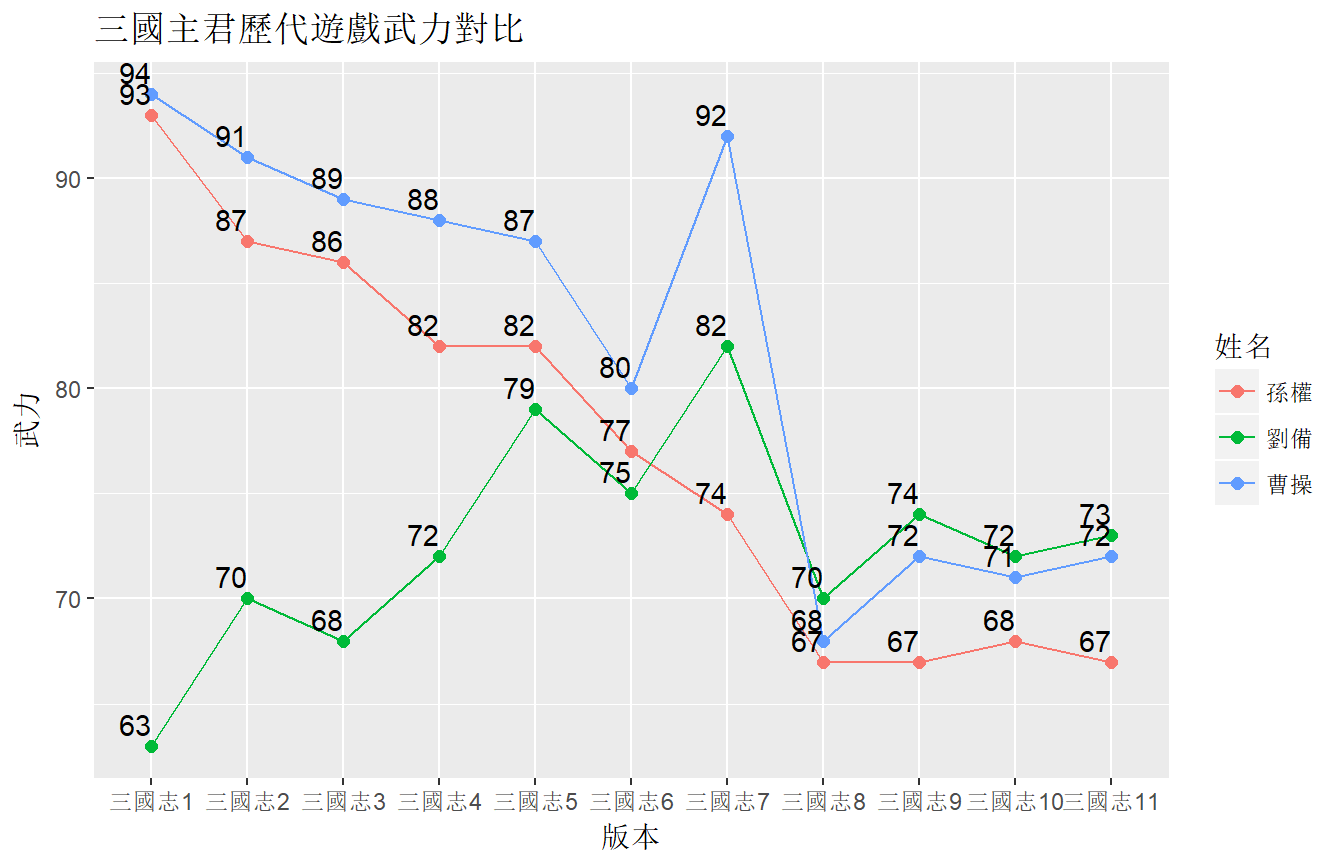
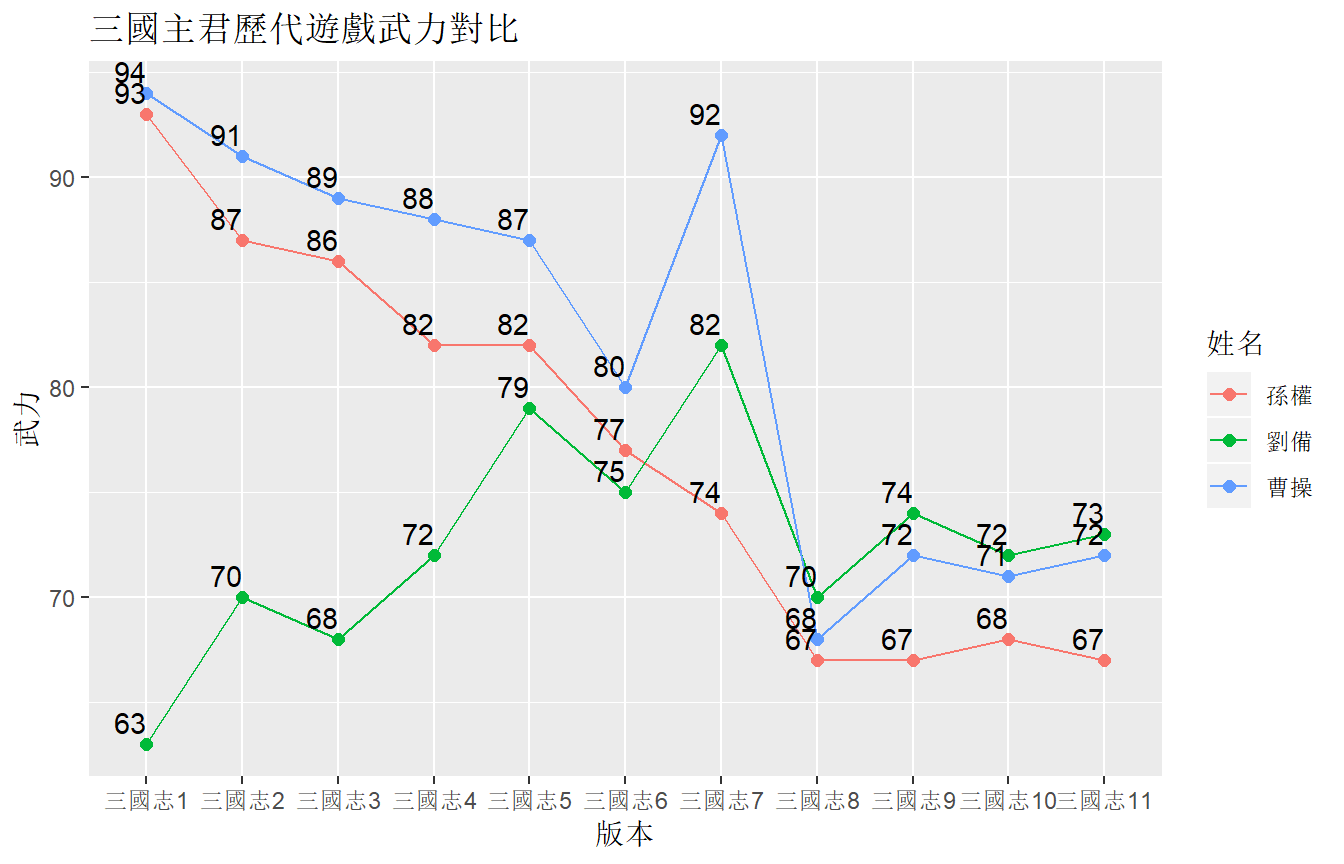
changed function from geom_text to geom_text_repel

diff --git a/content/post/RoTC-Analysis.html b/content/post/RoTC-Analysis.html
@@ -34,8 +34,12 @@ tags:
 <p>这些是我们需要用到的package.</p>
 <pre class="r"><code>library(readxl)
 library(dplyr)
-library(data.table)
-library(ggplot2)</code></pre>
+library(data.table)</code></pre>
+<pre><code>Warning: package &#39;data.table&#39; was built under R version 3.5.1</code></pre>
+<pre class="r"><code>library(ggplot2)</code></pre>
+<pre><code>Warning: package &#39;ggplot2&#39; was built under R version 3.5.1</code></pre>
+<pre class="r"><code>library(ggrepel)</code></pre>
+<pre><code>Warning: package &#39;ggrepel&#39; was built under R version 3.5.1</code></pre>
 <p>为了能在R里使用中文，我们用下面的代码将系统locale设置为”Chs”.</p>
 <pre class="r"><code>Sys.setlocale(&#39;LC_ALL&#39;,&#39;Chs&#39;)</code></pre>
 <p>接着用<code>readxl::read_excel</code>读取数据，每一个版本的数据分别存在了1个data frame里，我们总共有11个data frame，而这11个data frame又都再存在一个list里，因为<code>lapply</code>返回的就是list结构，我们给它命名为<code>dt</code>.</p>
@@ -52,12 +56,12 @@ series &lt;- lapply(1:11, function(x) {select(dt[[x]], -c(2:8)) %&gt;%
 <pre><code># A tibble: 6 x 7
   姓名    體力  武力  智力  魅力  運勢 版本   
   &lt;chr&gt;  &lt;dbl&gt; &lt;dbl&gt; &lt;dbl&gt; &lt;dbl&gt; &lt;dbl&gt; &lt;chr&gt;  
-1 丁奉     81.   22.   81.   29.   47. 三國志1
-2 于禁     82.   72.   20.   25.   28. 三國志1
-3 公孫瓚   84.   70.   67.   89.   28. 三國志1
-4 太史慈   88.   97.   47.   84.   34. 三國志1
-5 孔融     84.   82.   61.   50.   77. 三國志1
-6 文聘     88.   84.   22.   64.   83. 三國志1</code></pre>
+1 丁奉      81    22    81    29    47 三國志1
+2 于禁      82    72    20    25    28 三國志1
+3 公孫瓚    84    70    67    89    28 三國志1
+4 太史慈    88    97    47    84    34 三國志1
+5 孔融      84    82    61    50    77 三國志1
+6 文聘      88    84    22    64    83 三國志1</code></pre>
 <p>前边说过，每一代游戏武将拥有的属性不一样，第一代有体力，第二代把统率分成了陆指和水指, 第九代没有魅力。那我们来看下所有作品都有属性是什么，以及每一代都有的属性。</p>
 <p>排除姓名和版本，历代都出现过的属性只有武力和智力，这两个属性也是我们后边会主要分析的。</p>
 <pre class="r"><code>common_attr &lt;- Reduce(intersect, sapply(series, colnames))
@@ -112,16 +116,16 @@ nrow(show_in_all)</code></pre>
 <pre><code># A tibble: 10 x 1
    姓名  
    &lt;chr&gt; 
- 1 許靖  
- 2 楊秋  
- 3 雷薄  
- 4 丁奉  
- 5 吳班  
- 6 馬休  
- 7 呂虔  
- 8 邢道榮
- 9 魯肅  
-10 宋憲  </code></pre>
+ 1 嚴顏  
+ 2 紀靈  
+ 3 郭圖  
+ 4 邢道榮
+ 5 雍闓  
+ 6 公孫瓚
+ 7 徐盛  
+ 8 馬鐵  
+ 9 馬玩  
+10 朱靈  </code></pre>
 <p>那有哪些角色出现在了第一部，却在后边某些版本没出现呢。</p>
 <pre class="r"><code>show_in_all &lt;- Reduce(intersect, lapply(series, &quot;[&quot;, 1))
 setdiff(filter(series_full, 版本 == &quot;三國志1&quot;)$姓名, show_in_all$姓名)</code></pre>
@@ -222,16 +226,16 @@ top_low_attr &lt;- function(attrs, bw = 1){
 <pre><code># A tibble: 10 x 3
    姓名    次數  均值
    &lt;chr&gt;  &lt;int&gt; &lt;dbl&gt;
- 1 呂布      11  100.
- 2 張飛      11   99.
- 3 關羽      11   98.
- 4 馬超      11   98.
- 5 許褚      11   97.
- 6 趙雲      10   98.
- 7 典韋       9   96.
- 8 黃忠       6   96.
- 9 文醜       6   96.
-10 太史慈     5   96.</code></pre>
+ 1 呂布      11   100
+ 2 張飛      11    99
+ 3 關羽      11    98
+ 4 馬超      11    98
+ 5 許褚      11    97
+ 6 趙雲      10    98
+ 7 典韋       9    96
+ 8 黃忠       6    96
+ 9 文醜       6    96
+10 太史慈     5    96</code></pre>
 </div>
 <div class="section level4">
 <h4>2.3.2 历代最高智力</h4>
@@ -240,16 +244,16 @@ top_low_attr &lt;- function(attrs, bw = 1){
 <pre><code># A tibble: 10 x 3
    姓名    次數  均值
    &lt;chr&gt;  &lt;int&gt; &lt;dbl&gt;
- 1 龐統      11   98.
- 2 司馬懿    11   98.
- 3 荀彧      11   97.
- 4 周瑜      11   97.
- 5 諸葛亮    10  100.
- 6 郭嘉      10   98.
- 7 陸遜      10   96.
- 8 賈詡       9   96.
- 9 徐庶       9   96.
-10 左慈       4   99.</code></pre>
+ 1 龐統      11    98
+ 2 司馬懿    11    98
+ 3 荀彧      11    97
+ 4 周瑜      11    97
+ 5 諸葛亮    10   100
+ 6 郭嘉      10    98
+ 7 陸遜      10    96
+ 8 賈詡       9    96
+ 9 徐庶       9    96
+10 左慈       4    99</code></pre>
 <p>那我们来看下是哪一代诸葛亮掉队了。原來是第七部，这部游戏的人物数值设计师看来是个诸葛亮黑，或者他把诸葛亮其他能力调高了？</p>
 <pre class="r"><code>series_full %&gt;% filter(姓名 == &quot;諸葛亮&quot;)  %&gt;%
   select(&quot;智力&quot;, &quot;版本&quot;)</code></pre>
@@ -288,16 +292,16 @@ top_low_attr &lt;- function(attrs, bw = 1){
 <pre><code># A tibble: 10 x 3
    姓名      次數  均值
    &lt;chr&gt;    &lt;int&gt; &lt;dbl&gt;
- 1 兀突骨       9    9.
- 2 俄何燒戈     7   13.
- 3 潘鳳         7   12.
- 4 忙牙長       7   10.
- 5 楊秋         5   16.
- 6 金環三結     5   15.
- 7 蔡和         5    9.
- 8 王雙         4   16.
- 9 曹豹         4   14.
-10 孟優         3   12.</code></pre>
+ 1 兀突骨       9     9
+ 2 俄何燒戈     7    13
+ 3 潘鳳         7    12
+ 4 忙牙長       7    10
+ 5 楊秋         5    16
+ 6 金環三結     5    15
+ 7 蔡和         5     9
+ 8 王雙         4    16
+ 9 曹豹         4    14
+10 孟優         3    12</code></pre>
 <p>其它人物没太多可说的。蔡和，被曹操喊去卧底，估计一身演技还没施展，就被周瑜识破了。 上将潘凤打不过华雄为啥智力那么低，何况也是韩馥让他去的，他的大斧饥渴难耐那是电视剧给他加的台词。都怪罗贯中。</p>
 <pre>
 “末将遵命！取兵器来！” 《央视版三国》
@@ -313,16 +317,16 @@ top_low_attr &lt;- function(attrs, bw = 1){
 <pre><code># A tibble: 10 x 3
    姓名    次數  均值
    &lt;chr&gt;  &lt;int&gt; &lt;dbl&gt;
- 1 黃皓       8   12.
- 2 岑昏       7   12.
- 3 韓玄       7   11.
- 4 忙牙長     5   16.
- 5 曹豹       5   15.
- 6 雷薄       5   15.
- 7 嚴政       5   13.
- 8 何晏       4   10.
- 9 楊松       4    8.
-10 糜芳       3   14.</code></pre>
+ 1 黃皓       8    12
+ 2 岑昏       7    12
+ 3 韓玄       7    11
+ 4 忙牙長     5    16
+ 5 曹豹       5    15
+ 6 雷薄       5    15
+ 7 嚴政       5    13
+ 8 何晏       4    10
+ 9 楊松       4     8
+10 糜芳       3    14</code></pre>
 </div>
 </div>
 <div class="section level3">
@@ -386,7 +390,7 @@ wuhu_vs_wuzi &lt;- function(attrs){
     geom_point(size = 2, aes(color = 稱呼)) + 
     geom_line(aes(color = 稱呼)) +
     scale_y_continuous(limits = c(0, 100), breaks = seq(0, 100, 10)) + 
-    geom_text(data = filter(general, 版本 == &quot;三國志1&quot;), 
+    geom_text_repel(data = filter(general, 版本 == &quot;三國志1&quot;), 
       aes(label = 姓名, hjust = 1, vjust = -1)) +
     ggtitle(paste0(&quot;五子良將和五虎大將歷代&quot;, attrs, &quot;對比&quot;))
 }</code></pre>
@@ -441,16 +445,16 @@ wuhu_vs_wuzi &lt;- function(attrs){
 <pre><code># A tibble: 10 x 2
    姓名  武力變化
    &lt;chr&gt;    &lt;dbl&gt;
- 1 孔融       77.
- 2 貂蟬       71.
- 3 鍾繇       68.
- 4 韓馥       66.
- 5 小喬       65.
- 6 大喬       63.
- 7 丁奉       62.
- 8 曹熊       61.
- 9 裴秀       60.
-10 劉繇       59.</code></pre>
+ 1 孔融        77
+ 2 貂蟬        71
+ 3 鍾繇        68
+ 4 韓馥        66
+ 5 小喬        65
+ 6 大喬        63
+ 7 丁奉        62
+ 8 曹熊        61
+ 9 裴秀        60
+10 劉繇        59</code></pre>
 又是一位建安七子，武力变化最大的是孔融让梨故事的主人公孔文举。孔融武力最高达到了82，最低却只有5。也许考虑到了孔融早期为十八路诸侯中的一路，参与了讨伐董卓。但无论是正史还是演义，记载的孔融打过的仗基本都是败的。后汉书有个很有意思的记载。
 <pre>
 《後漢書·卷七十》：「建安元年，為袁譚所攻，自春至夏，戰士所餘裁數百人，
@@ -480,17 +484,17 @@ wuhu_vs_wuzi &lt;- function(attrs){
 <pre><code># A tibble: 11 x 2
    姓名   智力變化
    &lt;chr&gt;     &lt;dbl&gt;
- 1 鮑信        67.
- 2 韓玄        66.
- 3 劉璋        65.
- 4 穆順        57.
- 5 橋玄        56.
- 6 曹訓        55.
- 7 全琮        54.
- 8 蔡中        53.
- 9 韓浩        53.
-10 審配        53.
-11 於夫羅      53.</code></pre>
+ 1 鮑信         67
+ 2 韓玄         66
+ 3 劉璋         65
+ 4 穆順         57
+ 5 橋玄         56
+ 6 曹訓         55
+ 7 全琮         54
+ 8 蔡中         53
+ 9 韓浩         53
+10 審配         53
+11 於夫羅       53</code></pre>
 韩玄智力变化非常大，在历史上韩玄其实和小说里的形象相差甚远，以下摘自维基百科。
 <pre>
 清代汪应铨《韩玄墓记》载；韩玄“威信智略，足以服人”，“宽厚爱人，玄与三郡俱降，兵不血刃，百姓安堵，可谓知顺逆之理，有安全之德。”对韩玄评价甚高，似在为其正名。
